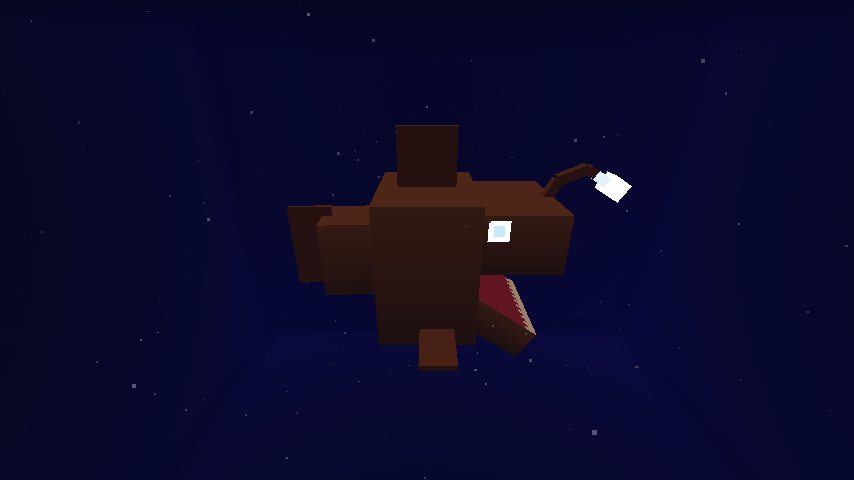
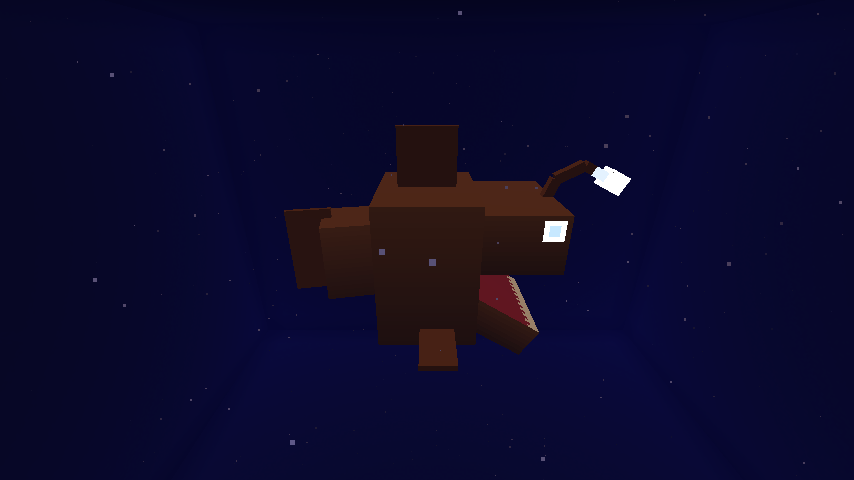
fix: lurker had 4 eyes — drop the front-face pair, keep one per side (VoX)
Also anchors the side eyes per-face (east high-u / west low-u = snout),
so the east eye sits at the top-front like the west one instead of at
the back of the head. Site shot re-rendered.

diff --git a/paint_abyssal_lurker.py b/paint_abyssal_lurker.py
@@ -126,18 +126,15 @@ def paint_body():
     for i in range(uw):
         spike = 3 if i % 2 == 0 else 2
         rect(ux + i, uy + uh - spike, 1, spike, TEETH)
-    # BIG pale eye high on the head front (north) face, with a dark pupil.
-    nx, ny, nw, nh = [int(v) for v in F['head']['north']]
-    ex, ey = nx + 2, ny + 1
-    rect(ex, ey, 4, 4, EYE)
-    rect(ex + 1, ey + 1, 2, 2, PUPIL)
-    rect(nx + nw - 6, ey, 4, 4, EYE)
-    rect(nx + nw - 5, ey + 1, 2, 2, PUPIL)
-    # also a big eye on each side (east/west) of the head, near the top-front.
+    # ONE big pale eye per side (east/west) of the head, near the top-front, with a
+    # dark pupil. No eyes on the front (north) face — a front pair plus the side
+    # pair read as four eyes (VoX). Side faces unwrap with OPPOSITE u-senses
+    # (east: high-u = snout, west: low-u = snout), so the anchor mirrors per face.
     for side in ('east', 'west'):
         sx0, sy0, sw, sh = [int(v) for v in F['head'][side]]
-        rect(sx0 + 1, sy0 + 1, 4, 4, EYE)
-        rect(sx0 + 2, sy0 + 2, 2, 2, PUPIL)
+        ex0 = sx0 + 1 if side == 'west' else sx0 + sw - 5
+        rect(ex0, sy0 + 1, 4, 4, EYE)
+        rect(ex0 + 1, sy0 + 2, 2, 2, PUPIL)
 
     # ---- LOWER_JAW ----
     fillbox(F['lower_jaw'], BODY_SIDE, BODY_SIDE, BODY_BELLY)
@@ -204,14 +201,12 @@ def paint_emissive():
         rect(x, y, w, min(3, h), GLOW)
 
     # EYES — glow them too (anglerfish eyes catch the lure light). Mirror the body
-    # script's eye placements EXACTLY so registration matches.
-    nx, ny, nw, nh = [int(v) for v in F['head']['north']]
-    ey = ny + 1
-    rect(nx + 2, ey, 4, 4, GLOW)
-    rect(nx + nw - 6, ey, 4, 4, GLOW)
+    # script's eye placements EXACTLY so registration matches: side faces only,
+    # per-face anchor (east: high-u = snout, west: low-u = snout).
     for side in ('east', 'west'):
         sx0, sy0, sw, sh = [int(v) for v in F['head'][side]]
-        rect(sx0 + 1, sy0 + 1, 4, 4, GLOW)
+        ex0 = sx0 + 1 if side == 'west' else sx0 + sw - 5
+        rect(ex0, sy0 + 1, 4, 4, GLOW)
 
     out = "/tmp/ocean-overhaul/src/main/resources/assets/oceanstarter/textures/entity/abyssal_lurker_emissive.png"
     img.save(out)
